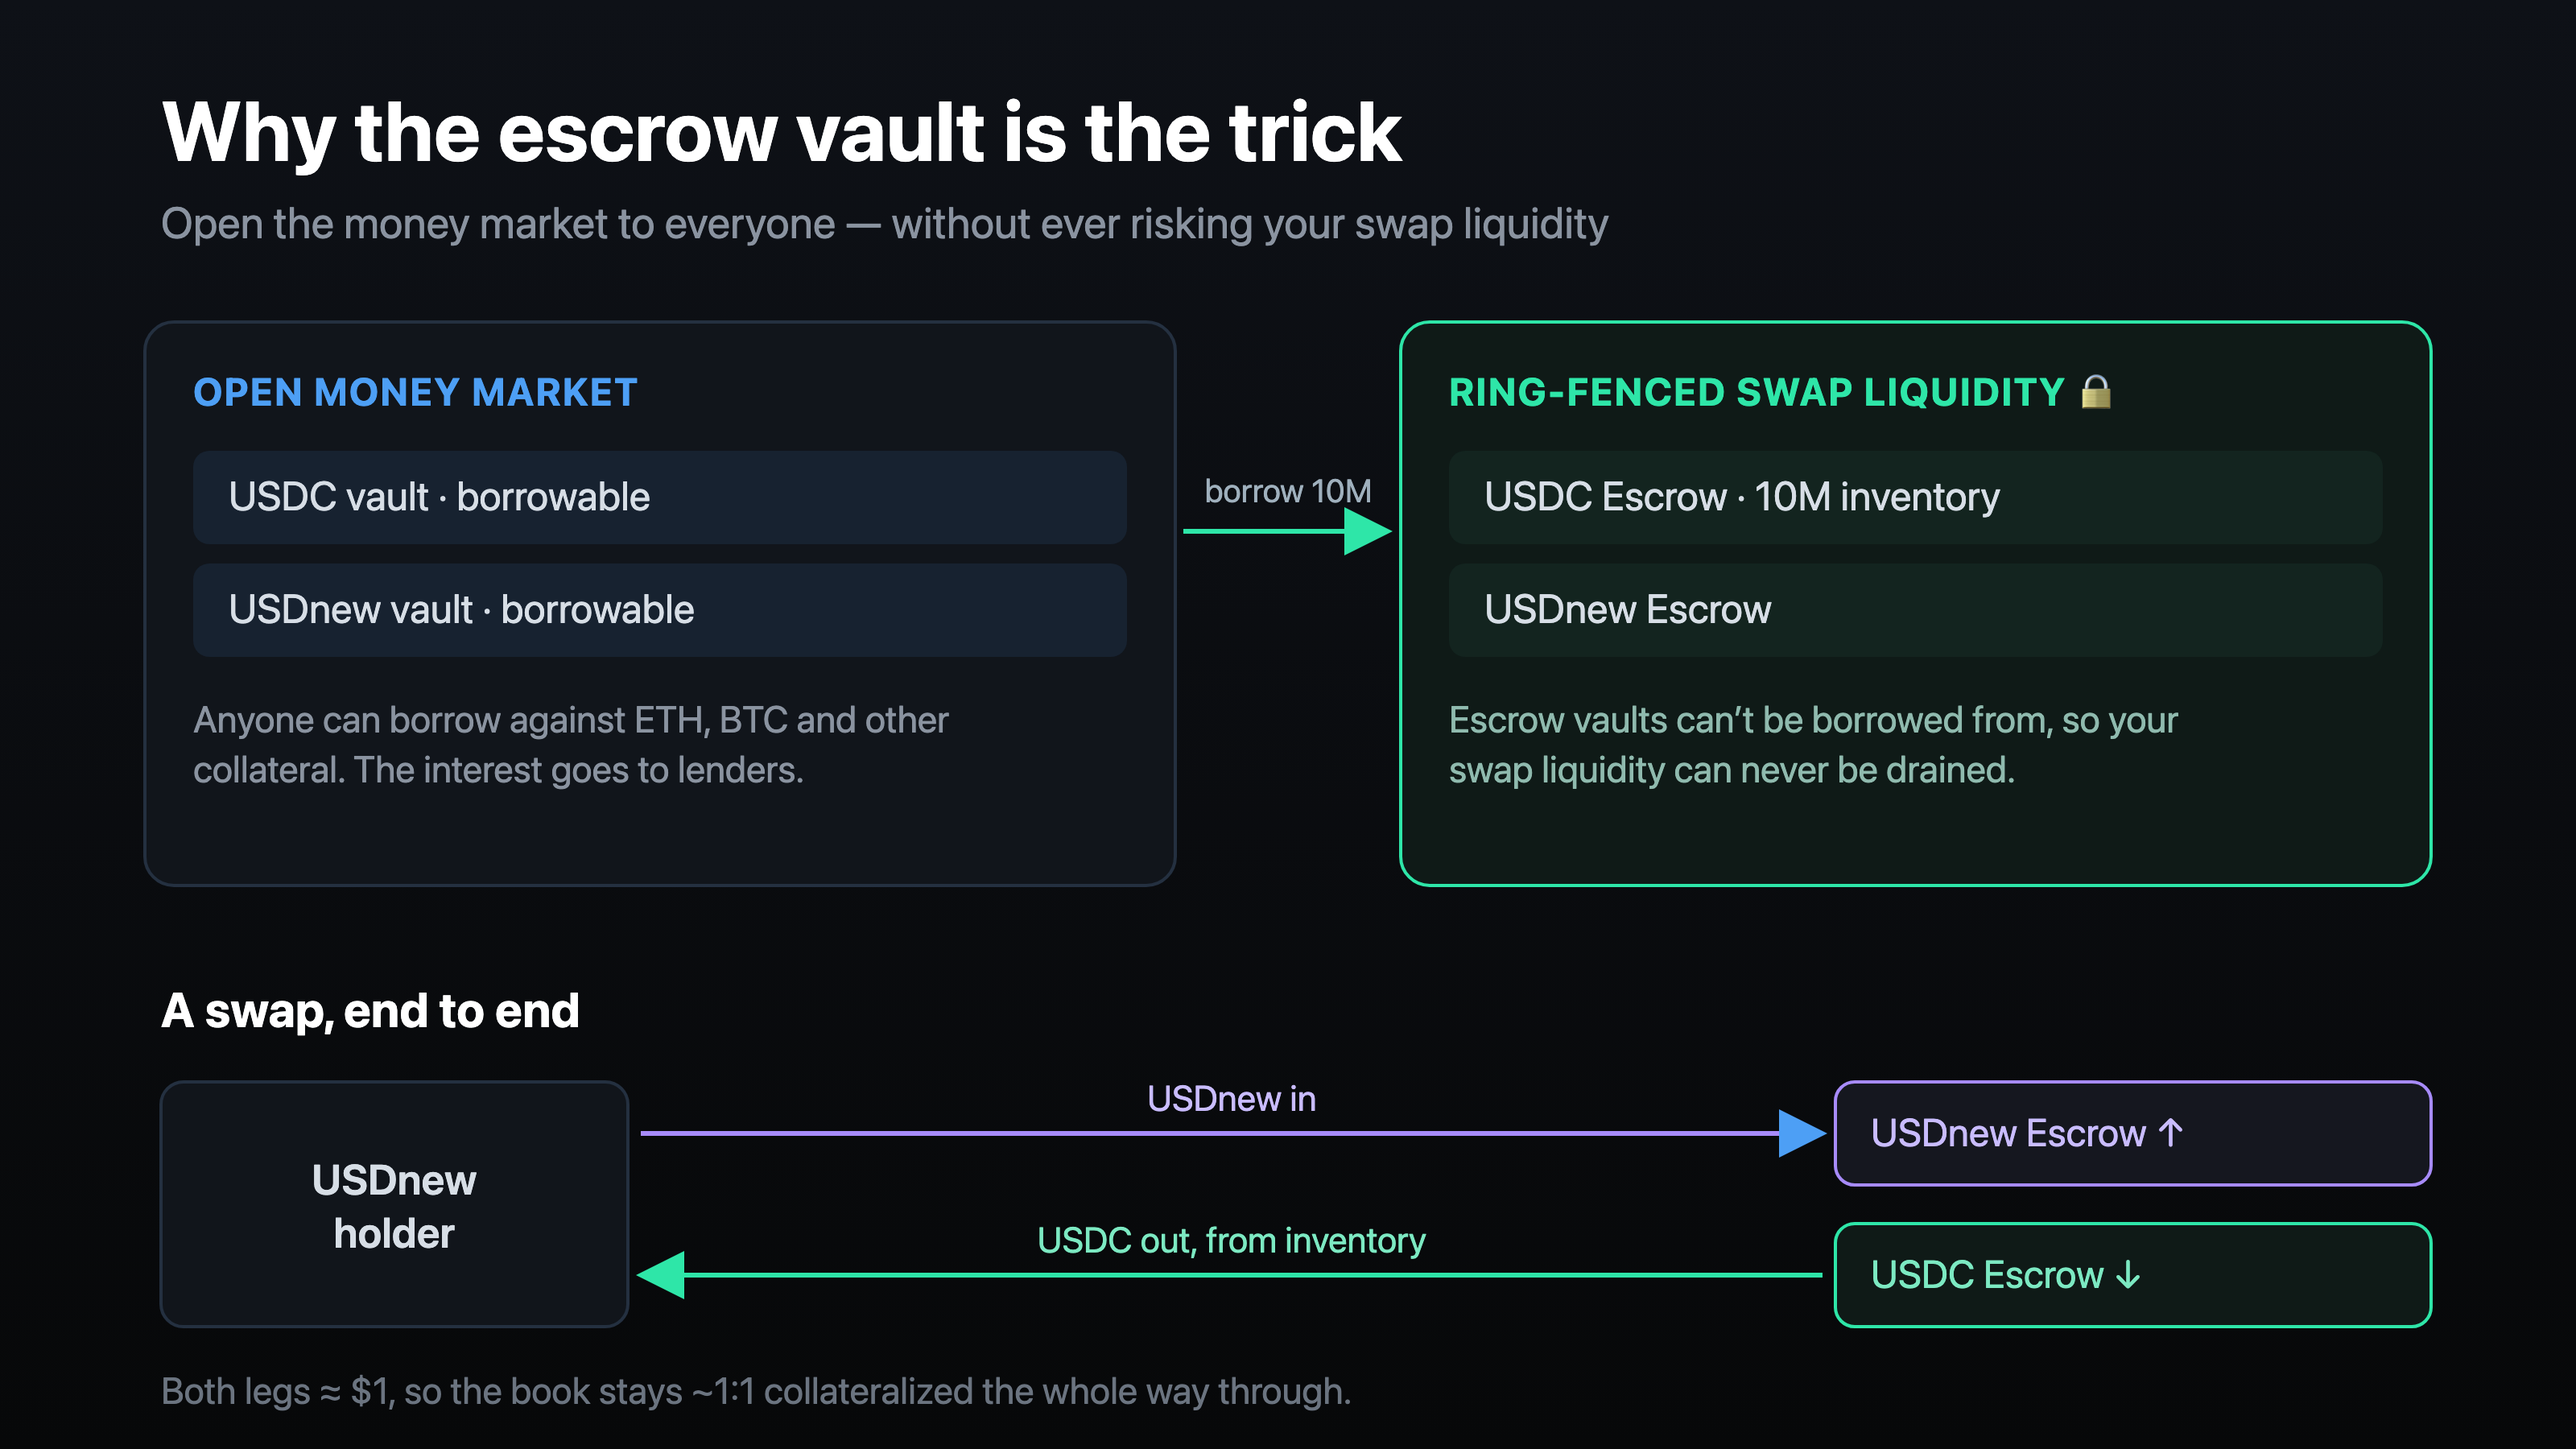
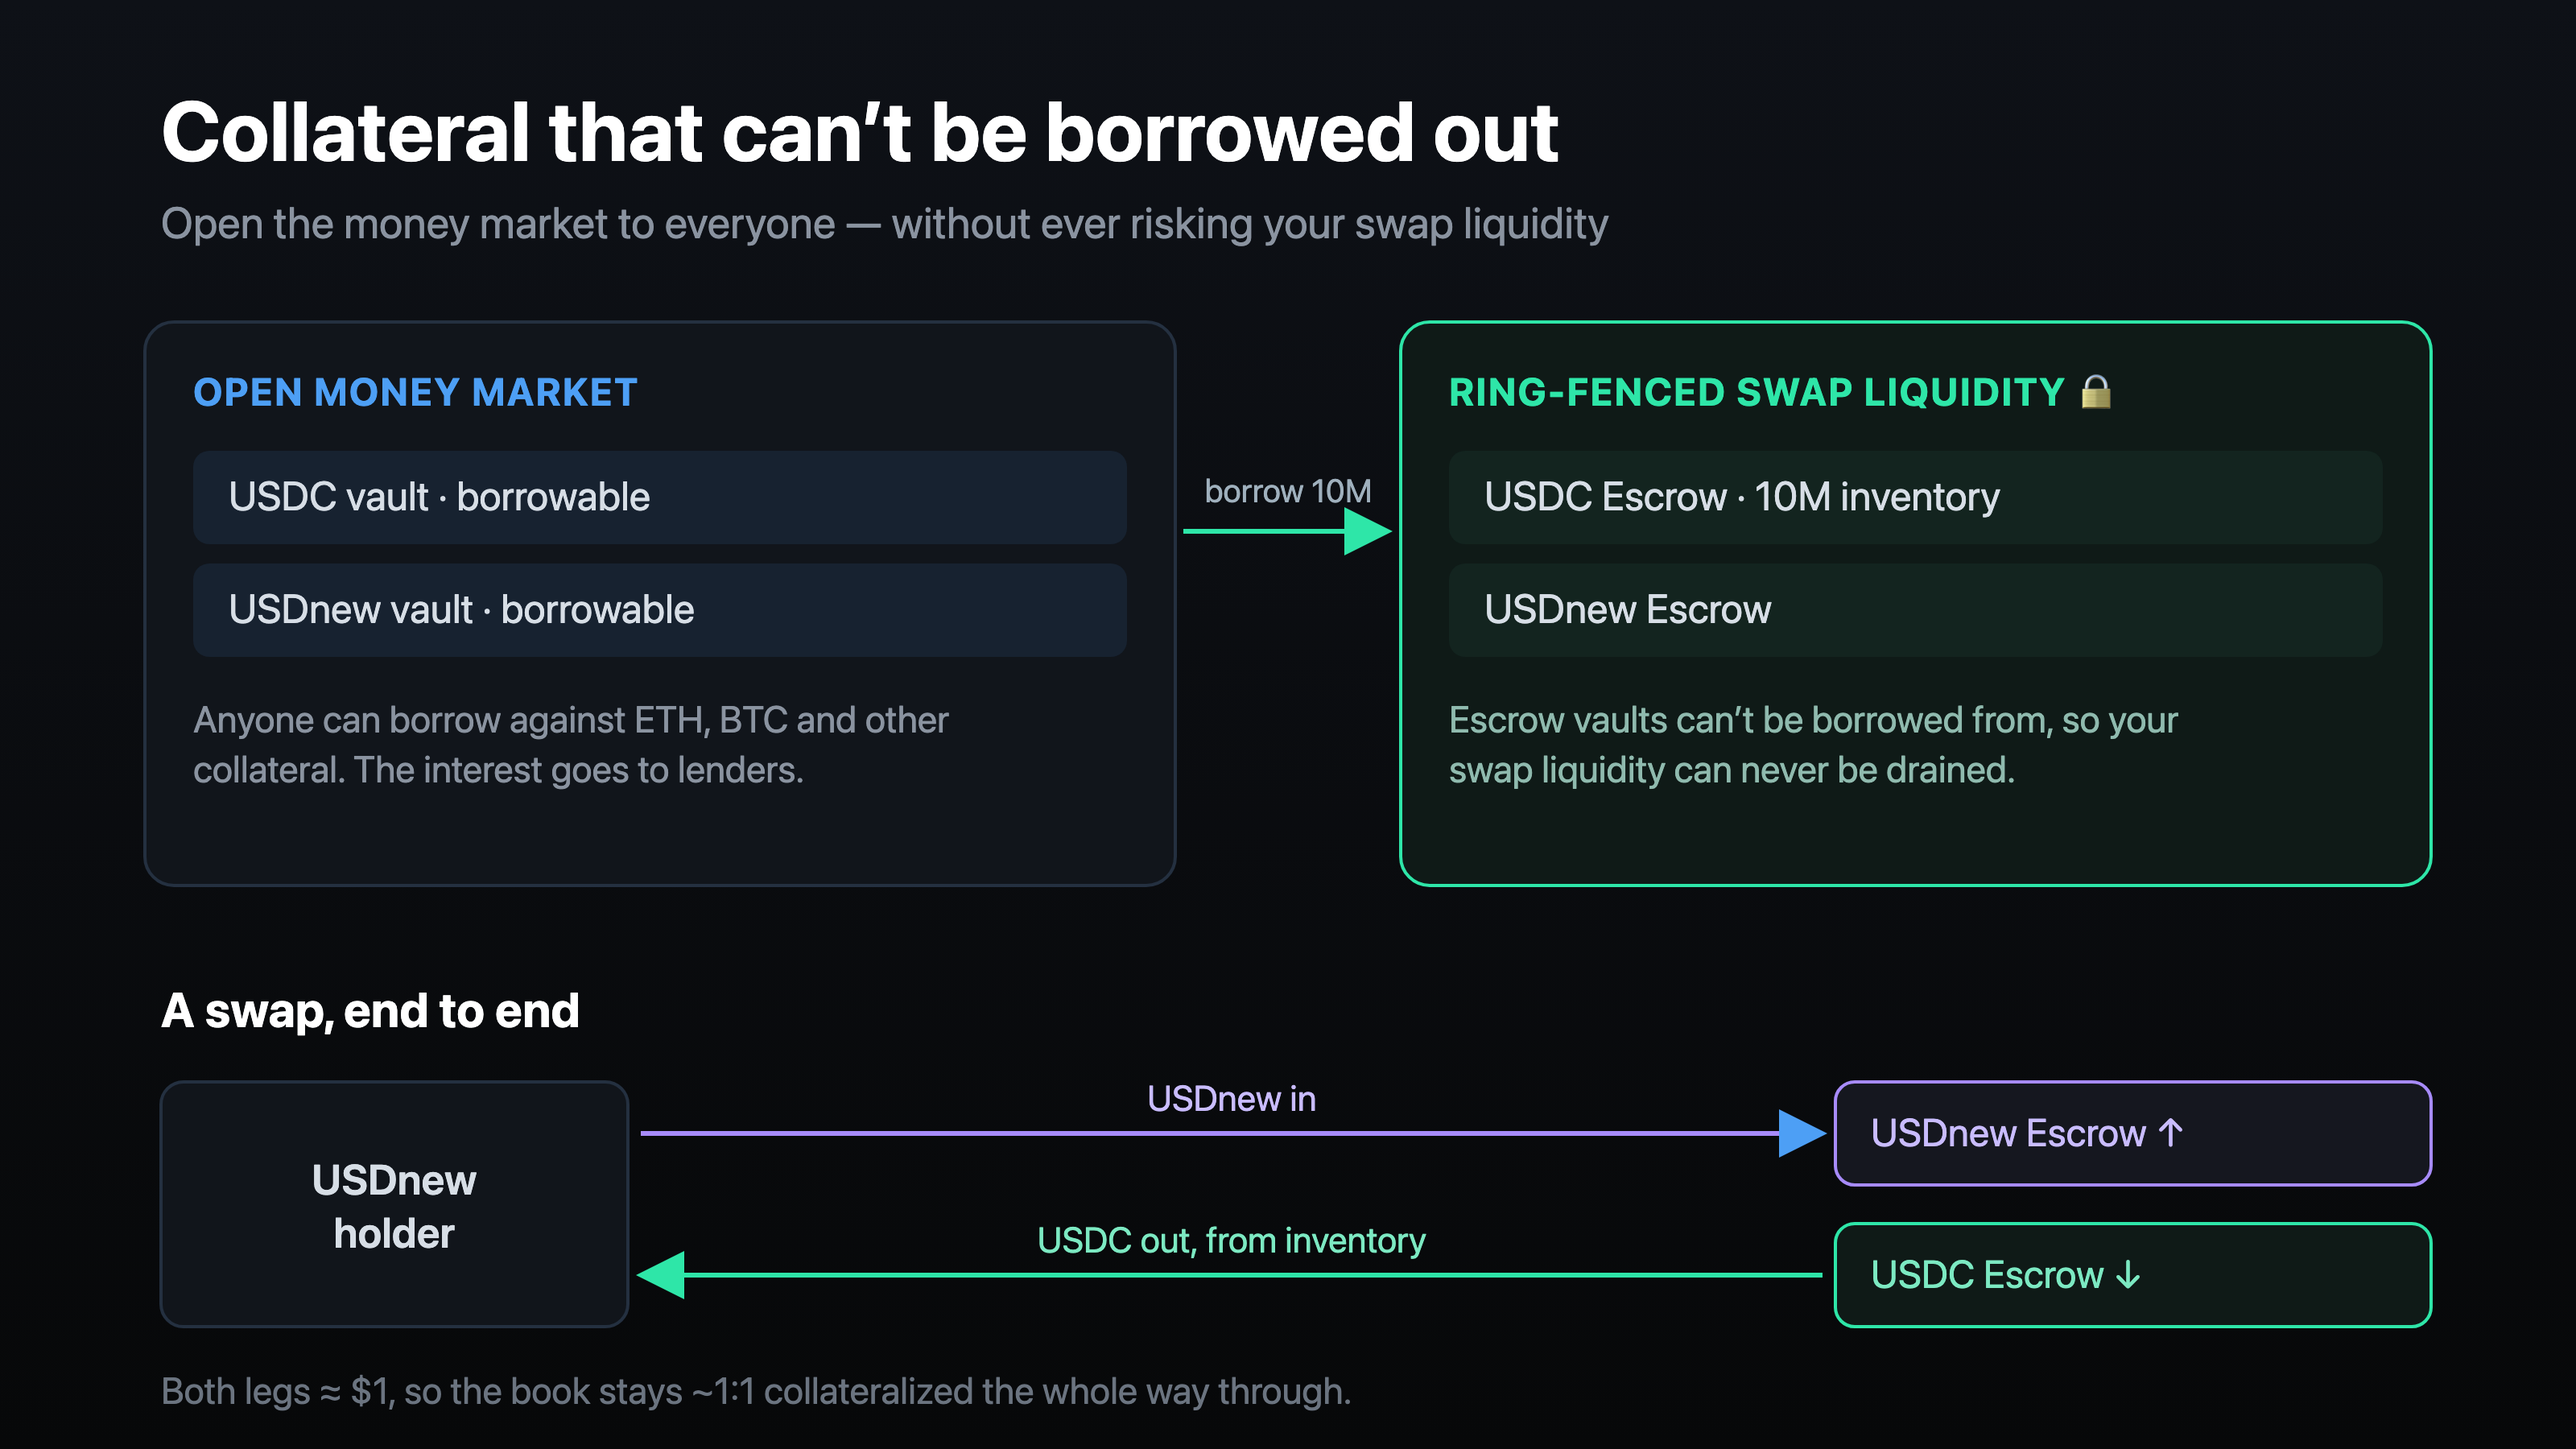
Reframe "escrow trick" as collateral-only vaults
Clearer framing across README, walkthrough and blog post: these are
collateral-only vaults (Euler calls them "escrow" vaults) that hold assets you
can post as collateral, with nothing borrowable out of them. Here that
collateral also services the liquidity — so the whole thing is just allowing
collateral swaps on a leveraged stablecoin position. Retitle the mechanism
diagram to "Collateral that can't be borrowed out" and re-render.

Changed region(s): [[0.0625, 0.0622, 0.625, 0.1244]]

diff --git a/docs/WALKTHROUGH.md b/docs/WALKTHROUGH.md
@@ -35,18 +35,22 @@ collateral, borrowing USDC against it costs roughly **3–4% a year** at today's
 That borrow rate is your cost of liquidity — and because every swap pays you a fee,
 1–2% in swap fees nets you down to **~1–2% a year**. Self-custodied, on-chain, yours.
 
-## The escrow trick
+## Collateral-only vaults
 
-![Why the escrow vault is the trick](../assets/2-mechanism.png)
+![Collateral-only escrow vaults ring-fence the swap inventory](../assets/2-mechanism.png)
 
-The swap inventory lives in **collateral-only escrow vaults**. Nothing can be borrowed
-*out* of an escrow vault, so the liquidity you've set aside for swappers can never be
-drained by the money market — even while you open the borrowable vaults wide to other
-users. That ring-fencing is the property that makes the whole structure safe.
+The swap inventory lives in **collateral-only vaults** — in Euler's world these are
+*escrow* vaults. An escrow vault does one thing: it holds an asset you can post as
+collateral, and **nothing can be borrowed out of it**. Here that collateral does double
+duty — it's also the inventory EulerSwap hands to swappers. Because it can never be
+borrowed away, your swap liquidity can't be drained by the money market, even with the
+borrowable vaults wide open.
 
-When someone swaps USDC in for the stable, their USDC lands in the USDC escrow and the
-stable flows out of the stable escrow. Because both legs sit at ~$1, the book stays
-roughly 1:1 collateralised the whole way through.
+Step back and the structure is simpler than it sounds: you're running a leveraged
+stablecoin position and **allowing collateral swaps on it**. When someone swaps USDC in
+for the stable, their USDC lands in the USDC escrow and the stable flows out of the stable
+escrow — they're just swapping between the collateral assets of your position. Because both
+legs sit at ~$1, the book stays roughly 1:1 collateralised the whole way through.
 
 ## It's a mini Aave/Spark market
 

diff --git a/docs/blog-post.md b/docs/blog-post.md
@@ -29,7 +29,9 @@ Deploy four Euler vaults:
 
 Wire up cross-collateral between them through the EVC, and you've got a self-contained RLUSD⇄USDC money market. (We pair RLUSD with USDC here, but USDT works just as well as the counter-asset - or run both RLUSD⇄USDC and RLUSD⇄USDT pools for wider coverage and better routing.)
 
-The escrow vaults are the trick, and the beauty of EulerSwap v2. Your swap inventory lives there - and because nothing can ever be borrowed out of an escrow vault, the liquidity you've set aside for swappers can't be drained by anyone else, even while the borrowable vaults are wide open. That ring-fencing is what makes the whole structure safe.
+Two of those are **collateral-only vaults** - in Euler's world they're called *escrow* vaults. They do one thing: hold assets you can post as collateral, with nothing borrowable out of them. The nice part is that here the collateral does double duty - it's also the inventory EulerSwap hands to swappers. Because it can never be borrowed away, your swap liquidity can't be drained by the money market, even with the borrowable vaults wide open.
+
+Step back and the whole structure is simpler than it sounds: you're running a leveraged stablecoin position and **allowing collateral swaps on it**. Someone trading RLUSD→USDC is just swapping between the collateral assets of your position - and because both legs sit at ~$1, it stays fully collateralized the whole way.
 
 ![A swap routes through ring-fenced escrow inventory: RLUSD in to escrow, USDC out from borrowed inventory, while the borrowable money market stays separate](../assets/2-mechanism.png)
 
